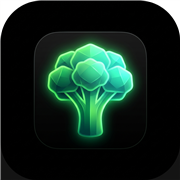
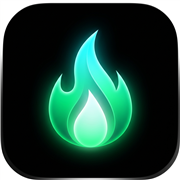
feat: llama neon como icono oficial - header + dashboard + PWA

diff --git a/src/App.jsx b/src/App.jsx
@@ -1,4 +1,5 @@
 import React, { useState, useMemo, useEffect } from 'react';
+import flameIcon from './assets/flame.png';
 import { 
   Plus, Trash2, Settings, Flame, ChevronRight, Search, X, Check, 
   Scale, ArrowLeft, Sun, Moon, Cookie, Activity, 
@@ -821,7 +822,7 @@ export default function App() {
       {/* Header Fijo */}
       <div className="fixed top-0 left-0 w-full z-50 px-6 py-4 flex justify-between items-center backdrop-blur-2xl border-b border-zinc-900 bg-black/80">
          <h1 className="font-black text-xl flex items-center gap-2 tracking-tight">
-             <Zap className="text-emerald-500" fill="currentColor"/> MiDéficit
+             <img src={flameIcon} alt="MiDéficit" className="w-7 h-7 drop-shadow-[0_0_8px_rgba(0,242,254,0.8)]"/> MiDéficit
          </h1>
          <div className="flex items-center gap-3">
              <span className="text-xs font-bold text-zinc-400 capitalize">{authUser?.username}</span>
@@ -969,6 +970,7 @@ export default function App() {
             {/* Premium Summary Card */}
             <div className="relative overflow-hidden rounded-[2.5rem] p-8 bg-zinc-900 border border-zinc-800 group">
                <div className="absolute -right-10 -top-10 w-48 h-48 bg-emerald-500 rounded-full opacity-10 blur-[60px]"></div>
+               <img src={flameIcon} alt="" className="absolute -right-4 -top-4 w-32 h-32 opacity-20 blur-[2px] pointer-events-none select-none" />
                
                <div className="relative z-10 mb-8">
                    <div className="flex justify-between items-end mb-4">